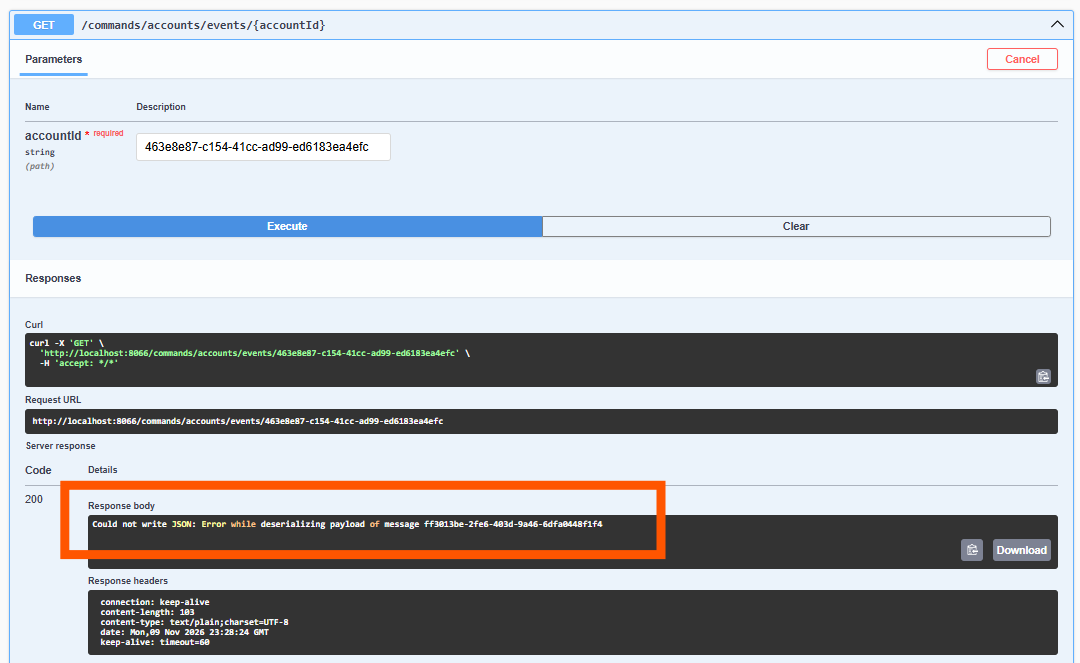
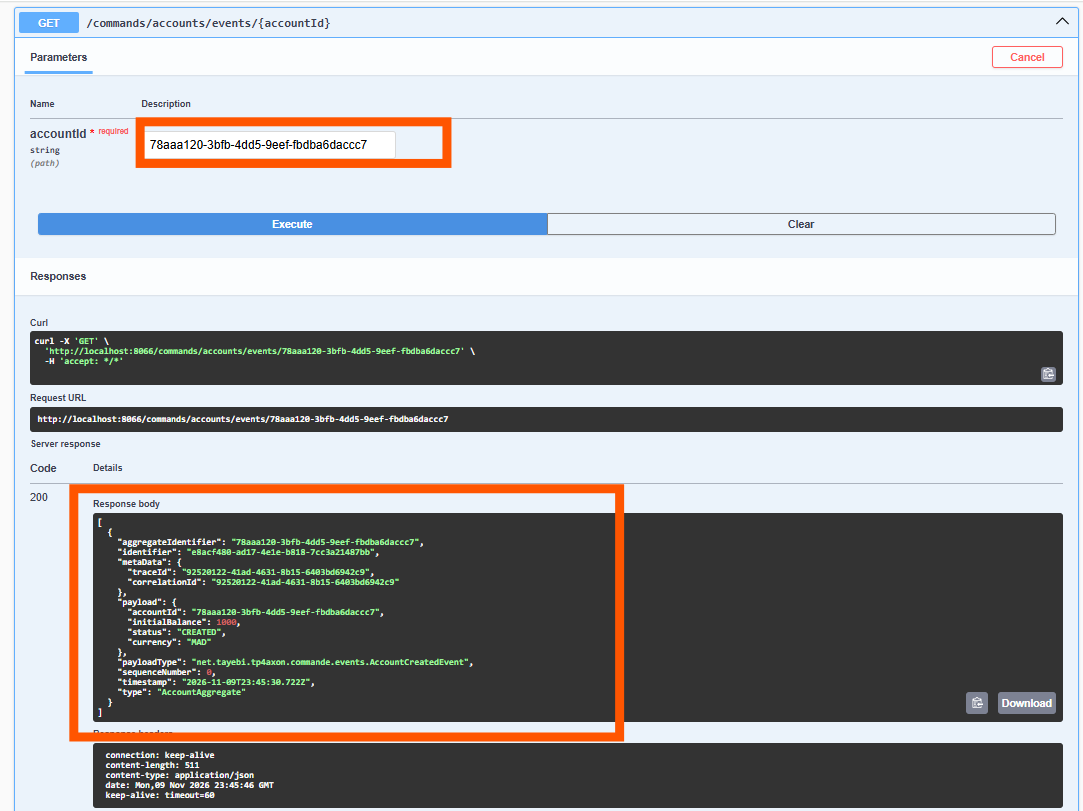
sixth commit

diff --git a/src/main/java/net/tayebi/tp4axon/commande/aggregates/AccountAggregate.java b/src/main/java/net/tayebi/tp4axon/commande/aggregates/AccountAggregate.java
@@ -2,7 +2,10 @@ package net.tayebi.tp4axon.commande.aggregates;
 
 import lombok.extern.slf4j.Slf4j;
 import net.tayebi.tp4axon.commande.commandes.AddAccountCommand;
+import net.tayebi.tp4axon.commande.commandes.CreditAccountCommand;
+import net.tayebi.tp4axon.commande.events.AccountActivatedEvent;
 import net.tayebi.tp4axon.commande.events.AccountCreatedEvent;
+import net.tayebi.tp4axon.commande.events.AccountCreditedEvent;
 import net.tayebi.tp4axon.enums.AccountStatus;
 import org.axonframework.commandhandling.CommandHandler;
 import org.axonframework.eventsourcing.EventSourcingHandler;
@@ -30,12 +33,16 @@ public class AccountAggregate {
         if (command.getInitialBalance() <= 0)
             throw new IllegalArgumentException("Balance must be positive");
         // Émission de l'événement
+//        AggregateLifecycle.apply(new AccountCreatedEvent(
+//                command.getId(),
+//                command.getInitialBalance(),
+//                AccountStatus.CREATED,   // règle métier : un compte créé est à l'état CREATED
+//                command.getCurrency()
+//        ));
         AggregateLifecycle.apply(new AccountCreatedEvent(
-                command.getId(),
-                command.getInitialBalance(),
-                AccountStatus.CREATED,   // règle métier : un compte créé est à l'état CREATED
-                command.getCurrency()
-        ));
+                command.getId(), command.getInitialBalance(), AccountStatus.CREATED, command.getCurrency()));
+
+        AggregateLifecycle.apply(new AccountActivatedEvent(command.getId(), AccountStatus.ACTIVATED));
     }
 
     // --- Fonction d'évolution ---
@@ -44,6 +51,33 @@ public class AccountAggregate {
         log.info("AccountCreatedEvent occurred");
         this.accountId = event.getAccountId();
         this.balance = event.getInitialBalance();
+        this.status = event.getStatus();
+    }
+
+    @CommandHandler
+    public void handle(CreditAccountCommand command) {
+        log.info("CreditAccountCommand received");
+        if (!status.equals(AccountStatus.ACTIVATED))
+            throw new RuntimeException("Account " + accountId + " is not activated");
+        if (command.getAmount() <= 0)
+            throw new IllegalArgumentException("Amount should be positive");
+        AggregateLifecycle.apply(new AccountCreditedEvent(
+                command.getId(),
+                command.getAmount(),
+                command.getCurrency()
+        ));
+    }
+
+//    @EventSourcingHandler
+//    public void on(AccountCreditedEvent event) {
+//        log.info("AccountCreditedEvent occurred");
+//        this.balance += event.getAmount();   // le statut ne change pas
+//    }
+
+    @EventSourcingHandler
+    public void on(AccountActivatedEvent event) {
+        log.info("AccountActivatedEvent occurred");
+        this.accountId = event.getAccountId();
         this.status = event.getStatus();
     }
 }

diff --git a/src/main/java/net/tayebi/tp4axon/commande/controllers/AccountCommandController.java b/src/main/java/net/tayebi/tp4axon/commande/controllers/AccountCommandController.java
@@ -7,6 +7,8 @@ import net.tayebi.tp4axon.dto.CreditAccountRequestDTO;
 import org.axonframework.commandhandling.gateway.CommandGateway;
 import org.axonframework.eventsourcing.eventstore.EventStore;
 import org.springframework.beans.factory.annotation.Autowired;
+import org.springframework.http.HttpStatus;
+import org.springframework.http.ResponseEntity;
 import org.springframework.web.bind.annotation.*;
 
 import java.util.UUID;
@@ -32,8 +34,11 @@ public class AccountCommandController {
         return result;
     }
     @ExceptionHandler(Exception.class)
-    public String handleException(Exception e){
-        return e.getMessage();
+    public ResponseEntity<String> exceptionHandler(Exception exception) {
+        Throwable root = exception;
+        while (root.getCause() != null) root = root.getCause();
+        root.printStackTrace();
+        return new ResponseEntity<>(root.toString(), HttpStatus.INTERNAL_SERVER_ERROR);
     }
     @GetMapping("/events/{accountId}")
     public Stream<?> eventStore(@PathVariable String accountId) {

diff --git a/src/main/java/net/tayebi/tp4axon/commande/events/AccountActivatedEvent.java b/src/main/java/net/tayebi/tp4axon/commande/events/AccountActivatedEvent.java
@@ -1,0 +1,15 @@
+package net.tayebi.tp4axon.commande.events;
+
+import lombok.AllArgsConstructor;
+import lombok.Getter;
+import lombok.NoArgsConstructor;
+import net.tayebi.tp4axon.enums.AccountStatus;
+
+@Getter
+@NoArgsConstructor
+@AllArgsConstructor
+public class AccountActivatedEvent {
+    private String accountId;
+    private AccountStatus status;
+
+}

diff --git a/src/main/java/net/tayebi/tp4axon/commande/events/AccountCreditedEvent.java b/src/main/java/net/tayebi/tp4axon/commande/events/AccountCreditedEvent.java
@@ -1,0 +1,15 @@
+package net.tayebi.tp4axon.commande.events;
+
+import lombok.AllArgsConstructor;
+import lombok.Getter;
+import lombok.NoArgsConstructor;
+
+@Getter
+@AllArgsConstructor
+@NoArgsConstructor
+
+public class AccountCreditedEvent {
+    private String accountId;
+    private double amount;
+    private String currency;
+}

diff --git a/src/main/java/net/tayebi/tp4axon/commande/events/AccountCreatedEvent.java b/src/main/java/net/tayebi/tp4axon/commande/events/AccountCreatedEvent.java
@@ -2,9 +2,11 @@ package net.tayebi.tp4axon.commande.events;
 
 import lombok.AllArgsConstructor;
 import lombok.Getter;
+import lombok.NoArgsConstructor;
 import net.tayebi.tp4axon.enums.AccountStatus;
 
 @Getter
+@NoArgsConstructor
 @AllArgsConstructor
 public class AccountCreatedEvent {
     private String accountId;

diff --git a/src/main/java/net/tayebi/tp4axon/dto/DebitAccountRequestDTO.java b/src/main/java/net/tayebi/tp4axon/dto/DebitAccountRequestDTO.java
@@ -1,0 +1,4 @@
+package net.tayebi.tp4axon.dto;
+
+public record DebitAccountRequestDTO(String accountId, double amount, String currency) {}
+

diff --git a/README.md b/README.md
@@ -551,7 +551,7 @@ public class AccountActivatedEvent {
 ```java
 AggregateLifecycle.apply(new AccountCreatedEvent(
         command.getId(), command.getInitialBalance(), AccountStatus.CREATED, command.getCurrency()));
-
+        
 AggregateLifecycle.apply(new AccountActivatedEvent(command.getId(), AccountStatus.ACTIVATED));
 ```
 
@@ -574,11 +574,25 @@ public void on(AccountActivatedEvent event) {
 ```
 
 Après redémarrage et nouveau compte : 2 événements, le crédit passe (200 OK), on peut recréditer plusieurs fois.
+![img_010.png](images/img_010.png)
 
 📸 **[TEST 8]** : l'erreur « Account ... is not activated » dans Swagger (avant correction).
-![img_10.png](images/img_10.png)
+![img_10.png](images/img_010.png)
 📸 **[TEST 9]** : la liste des événements d'un compte après correction (created, activated, credited...).
-![img_11.png](images/img_11.png)
+![img_11.png](images/img_011'.png)
+on ajut credit
+![img_012.png](images/img_012.png)
+on reconsulte evt
+![img_11.png](images/img_011'.png)
+![img_012'.png](images/img_012%27.png)
+
+
+
+on se connecte a notre pgqdmin http://localhost:8088/browser/
+
+![img_011'.png](images/img_011%27.png)
+
+
 
 ### 7.3 Débiter un compte
 
